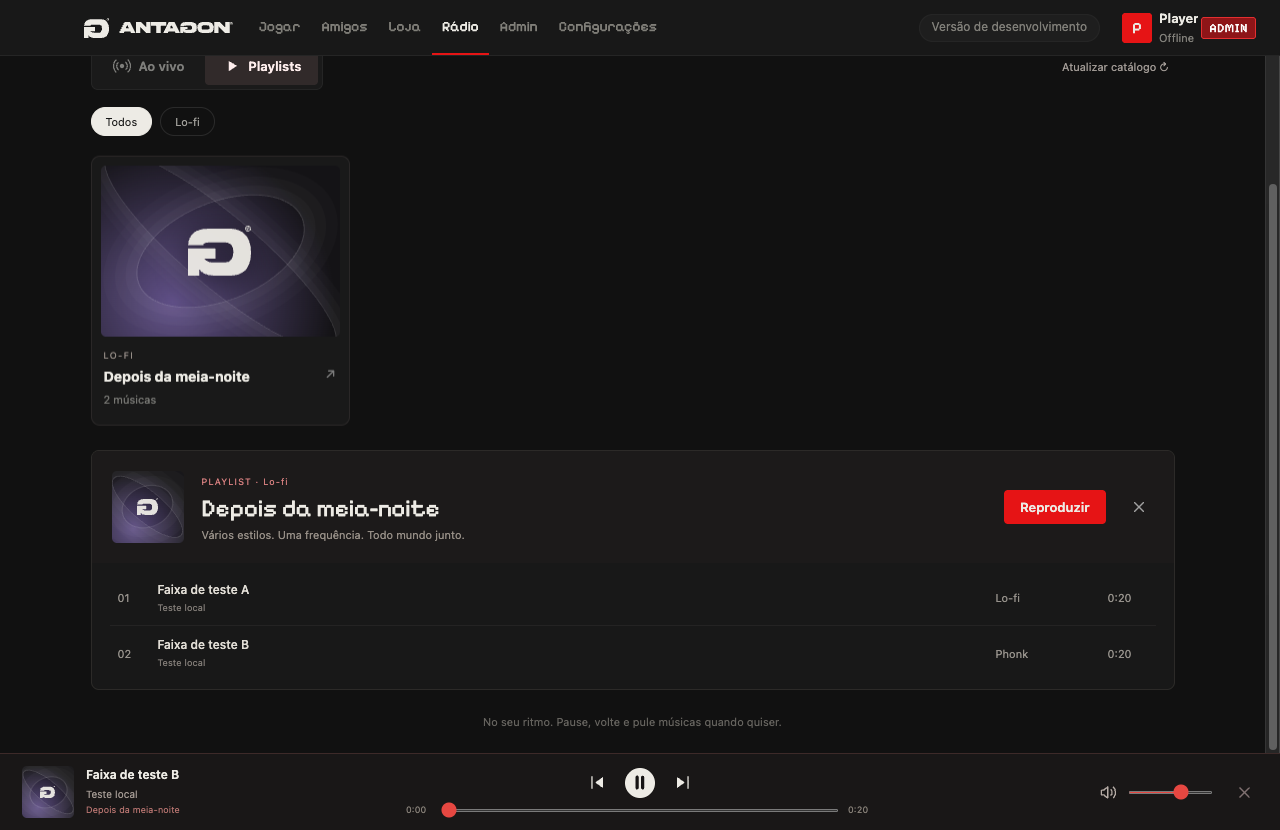
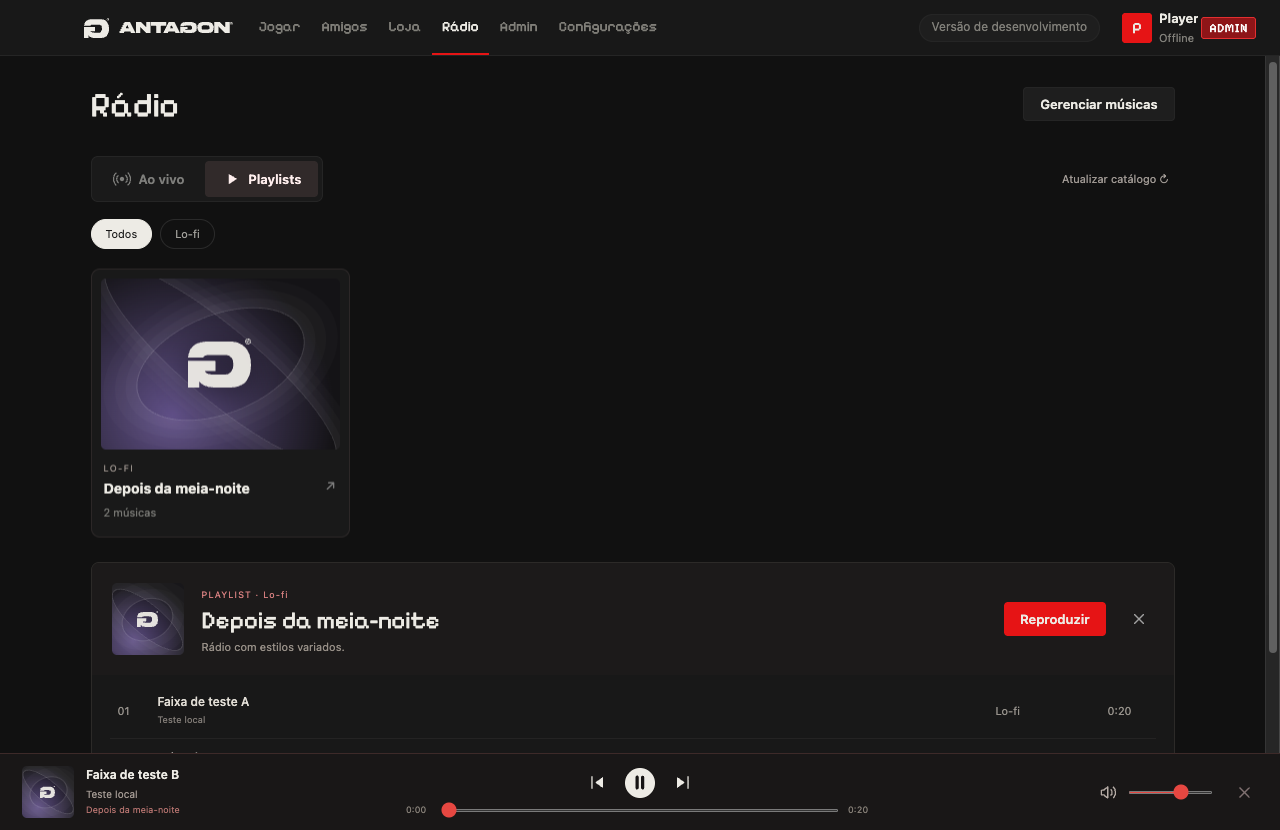
Remove promotional copy throughout the client

diff --git a/ui/radio.js b/ui/radio.js
@@ -42,14 +42,14 @@ export function mountRadio(api, toast) {
     reportBusy = false;
   $('#view-radio').innerHTML = `
     <div class="radio-page">
-      <header class="radio-heading"><div><span class="radio-eyebrow">ANTAGON MUSIC</span><h1>Encontre sua frequência.</h1><p>O som certo para acompanhar sua próxima partida.</p></div><button id="radio-manage" class="secondary" hidden>Gerenciar músicas</button></header>
+      <header class="radio-heading"><h1>Rádio</h1><button id="radio-manage" class="secondary" hidden>Gerenciar músicas</button></header>
       <div class="radio-hero" id="radio-hero"></div>
       <div class="radio-toolbar"><div class="radio-modes" role="group" aria-label="Modo de reprodução"><button data-radio-mode="radio" class="active">${icon('radio')} Ao vivo</button><button data-radio-mode="playlist">${icon('play')} Playlists</button></div><button id="radio-refresh" class="radio-refresh">Atualizar catálogo ↻</button></div>
       <div class="radio-genres" id="radio-genres" role="group" aria-label="Estilo musical"></div>
       <p class="radio-notice" id="radio-notice" role="status" hidden></p>
       <div class="radio-grid" id="radio-grid"></div>
       <section class="radio-detail" id="radio-detail" aria-label="Músicas da seleção" hidden></section>
-      <p class="radio-footnote" id="radio-footnote">Uma mesma frequência para todos. Escolha uma rádio e entre no ar.</p>
+      <p class="radio-footnote" id="radio-footnote">Nas rádios, todos ouvem a mesma música ao mesmo tempo.</p>
     </div>`;
   const footer = document.createElement('footer');
   footer.className = 'music-player';
@@ -86,9 +86,7 @@ export function mountRadio(api, toast) {
     $('#music-title').textContent = state.track?.title || 'Aguardando programação';
     $('#music-artist').textContent =
       state.error ||
-      (state.state === 'buffering'
-        ? 'Carregando áudio…'
-        : state.track?.artist || 'As músicas aparecerão aqui quando a rádio entrar no ar.');
+      (state.state === 'buffering' ? 'Carregando áudio…' : state.track?.artist || 'Nenhuma música na programação.');
     $('#music-collection').textContent = state.collection.name;
     $('#music-toggle').setAttribute(
       'aria-label',
@@ -116,7 +114,7 @@ export function mountRadio(api, toast) {
     $('#radio-hero').hidden = mode !== 'radio' || !main;
     if (main)
       $('#radio-hero').innerHTML =
-        `<div class="radio-hero-copy"><span class="radio-eyebrow"><span class="radio-dot"></span> A FREQUÊNCIA DA COMUNIDADE</span><h2>${esc(main.name)}</h2><p>${esc(main.description)}</p><button class="radio-listen" data-radio-play="${esc(main.id)}" ${available(main) ? '' : 'disabled'}>${icon('play')} ${available(main) ? 'Ouvir ao vivo' : 'Em preparação'}</button><span class="radio-hero-note">${available(main) ? 'Mesma música. Mesmo momento.' : 'As primeiras músicas chegam em breve.'}</span></div>${cover(main, 'hero-art')}`;
+        `<div class="radio-hero-copy"><span class="radio-eyebrow"><span class="radio-dot"></span> ${available(main) ? 'AO VIVO' : 'RÁDIO'}</span><h2>${esc(main.name)}</h2><p>${esc(main.description)}</p><button class="radio-listen" data-radio-play="${esc(main.id)}" ${available(main) ? '' : 'disabled'}>${icon('play')} ${available(main) ? 'Ouvir ao vivo' : 'Em preparação'}</button></div>${cover(main, 'hero-art')}`;
     const list = catalog.collections.filter((c) => c.mode === mode);
     const genres = ['Todos', ...new Set(list.map((c) => c.genre))];
     if (!genres.includes(genre)) genre = 'Todos';
@@ -134,11 +132,11 @@ export function mountRadio(api, toast) {
               `<button class="radio-card" data-radio-open="${esc(c.id)}">${cover(c)}<span class="radio-card-meta"><small>${esc(c.genre)}${c.mode === 'radio' ? ' · RÁDIO' : ''}</small><b>${esc(c.name)}</b><span class="radio-card-now" data-now="${esc(c.id)}">${c.trackIds.length ? `${c.trackIds.length} músicas` : 'Em preparação'}</span></span><span class="radio-card-arrow">↗</span></button>`,
           )
           .join('')
-      : '<div class="radio-empty">As playlists estão sendo preparadas. Volte em breve para encontrar sua próxima trilha.</div>';
+      : '<div class="radio-empty">Nenhuma seleção disponível.</div>';
     $('#radio-footnote').textContent =
       mode === 'radio'
-        ? 'Todos ouvem juntos. Ao voltar, você acompanha o ponto atual da transmissão.'
-        : 'No seu ritmo. Pause, volte e pule músicas quando quiser.';
+        ? 'Nas rádios, todos ouvem a mesma música ao mesmo tempo. Ao retomar, você acompanha o ponto atual da transmissão.'
+        : 'Nas playlists, você pode pausar, voltar e avançar músicas.';
     $('#radio-notice').hidden = !message;
     $('#radio-notice').textContent = message;
     renderDetail();

diff --git a/ui/index.html b/ui/index.html
@@ -39,20 +39,12 @@
       <section id="view-play" class="view active">
         <div class="home">
           <div class="home-heading">
-            <div>
-              <span class="eyebrow">ANTAGON CLIENT</span>
-              <h1>Seu próximo mundo.</h1>
-            </div>
+            <h1>Jogar</h1>
             <span class="home-edition">MINECRAFT JAVA EDITION</span>
           </div>
           <div class="home-hero">
             <div class="home-artwork">
               <img id="home-art" src="../assets/home-castle.png" alt="Castelo gótico sob a montanha-caveira" />
-              <div class="home-art-caption">
-                <span class="hero-mark"><img src="../assets/g-light.svg" alt="" />PRONTO PARA A PRÓXIMA PARTIDA</span>
-                <h2>Entre no jogo.</h2>
-                <p>O seu Minecraft. Do seu jeito.</p>
-              </div>
             </div>
             <aside class="launch-settings" aria-label="Configurações de jogo">
               <div class="launch-heading">
@@ -111,24 +103,20 @@
           </div>
           <section class="home-featured" aria-labelledby="featured-title">
             <div class="featured-heading">
-              <div>
-                <span class="eyebrow">DO SEU JEITO</span>
-                <h2 id="featured-title">Destaques da loja</h2>
-              </div>
-              <button id="home-store" class="text-button">Explorar loja <span aria-hidden="true">↗</span></button>
+              <h2 id="featured-title">Destaques da loja</h2>
+              <button id="home-store" class="text-button">Ver loja <span aria-hidden="true">↗</span></button>
             </div>
             <div id="featured-items" class="featured-items" aria-live="polite">
               <p class="featured-empty">Carregando destaques…</p>
             </div>
           </section>
-          <footer class="home-footer"><span>SEU JOGO. SUA IDENTIDADE.</span><span>ANTAGON STUDIO</span></footer>
         </div>
       </section>
 
       <section id="view-friends" class="view">
         <div class="gate" id="community-gate">
           <h2>Amigos</h2>
-          <p>Adicione seus amigos, veja o que eles estão jogando e converse sem sair do launcher.</p>
+          <p>Adicione amigos pelo nick do Minecraft para conversar e ver o status deles.</p>
           <button class="primary" id="community-login">Conectar</button>
         </div>
         <div class="community" id="community" hidden>
@@ -163,7 +151,7 @@
           <div class="store-heading">
             <div>
               <h1>Cosméticos</h1>
-              <p>Personalize seu jogador. Outros usuários do Antagon veem sua capa e sua tag.</p>
+              <p>Os cosméticos equipados ficam visíveis para outros usuários do Antagon.</p>
             </div>
             <div class="wallet">
               <img src="../assets/antagon-coin.png" alt="" /><strong id="coin-balance">0</strong><span>ANTAGOIN$</span>

diff --git a/ui/app.js b/ui/app.js
@@ -322,7 +322,7 @@ function itemPreview(item) {
   return `<img class="${item.kind === 'hat' ? 'hat' : ''}" src="${meta.image}" alt="" />`;
 }
 const itemDescription = (item) =>
-  ITEMS[item.id]?.description || (item.kind === 'hat' ? 'Acessório para a cabeça.' : 'Capa exclusiva.');
+  ITEMS[item.id]?.description || (item.kind === 'hat' ? 'Acessório para a cabeça.' : 'Capa personalizada.');
 let featuredRequest = null;
 function refreshFeatured() {
   if (featuredRequest) return featuredRequest;
@@ -337,7 +337,7 @@ function refreshFeatured() {
                 `<button class="featured-card" data-featured-item="${escape(item.id)}" aria-label="Ver ${escape(item.name)} na loja"><span class="featured-art"><span class="featured-kind">${item.kind === 'hat' ? 'Acessório' : 'Capa'}</span>${itemPreview(item)}</span><span class="featured-info"><span><b>${escape(item.name)}</b><span class="featured-price"><img src="../assets/antagon-coin.png" alt="" />${Number(item.price).toLocaleString('pt-BR')} ANTAGOIN$</span></span><span class="featured-arrow" aria-hidden="true">↗</span></span></button>`,
             )
             .join('')
-        : '<p class="featured-empty">Novos destaques em breve. Explore os cosméticos na loja.</p>';
+        : '<p class="featured-empty">Nenhum item em destaque.</p>';
     } catch {
       target.innerHTML =
         '<p class="featured-empty">Não foi possível carregar os destaques. <button id="featured-retry" class="text-button">Tentar novamente</button></p>';

diff --git a/ui/style.css b/ui/style.css
@@ -455,17 +455,10 @@ main {
 }
 .home-heading,
 .featured-heading,
-.launch-heading,
-.home-footer {
+.launch-heading {
   display: flex;
   align-items: center;
   justify-content: space-between;
-}
-.eyebrow {
-  color: #999a9c;
-  font-size: 10px;
-  letter-spacing: 2px;
-  font-weight: 700;
 }
 .home-heading {
   margin-bottom: 19px;
@@ -499,41 +492,6 @@ main {
   height: 100%;
   object-fit: cover;
   object-position: 53% center;
-}
-.home-artwork::after {
-  content: '';
-  position: absolute;
-  inset: 0;
-  background: linear-gradient(0deg, #080e19ed, #11192710 68%);
-  pointer-events: none;
-}
-.home-art-caption {
-  position: absolute;
-  z-index: 1;
-  bottom: 27px;
-  left: 30px;
-}
-.hero-mark {
-  display: flex;
-  align-items: center;
-  gap: 9px;
-  font-size: 9px;
-  letter-spacing: 1.6px;
-  color: #d8dce3;
-}
-.hero-mark img {
-  width: 19px;
-  height: 19px;
-}
-.home-art-caption h2 {
-  font: 46px var(--pixel);
-  margin: 12px 0 5px;
-  text-shadow: 0 2px 15px #0004;
-}
-.home-art-caption p {
-  margin: 0;
-  color: #b2bdca;
-  font-size: 12px;
 }
 .launch-settings {
   padding: 15px;
@@ -789,12 +747,6 @@ main {
   color: var(--muted);
   font-size: 13px;
   text-align: center;
-}
-.home-footer {
-  margin-top: 22px;
-  color: #575b62;
-  font-size: 9px;
-  letter-spacing: 1.2px;
 }
 .store-item:focus-within {
   outline: 1px solid var(--red);

diff --git a/ui/radio.css b/ui/radio.css
@@ -34,10 +34,6 @@
   margin: 7px 0 4px;
   letter-spacing: -0.3px;
 }
-.radio-heading p {
-  color: var(--muted);
-  margin: 0;
-}
 .radio-hero {
   min-height: 218px;
   position: relative;
@@ -89,11 +85,7 @@
   width: 18px;
   height: 18px;
 }
-.radio-hero-note {
-  color: #ae8c8c;
-  font-size: 11px;
-  margin-left: 14px;
-}
+
 .radio-art {
   --art: #a4182d;
   display: block;
@@ -757,10 +749,7 @@
     width: 230px;
     margin-right: 28px;
   }
-  .radio-hero-note {
-    display: block;
-    margin: 9px 0 0;
-  }
+
   .radio-hero-copy {
     padding: 25px;
   }

diff --git a/mod-src/studio/antagon/AntagonHud.java b/mod-src/studio/antagon/AntagonHud.java
@@ -890,7 +890,7 @@ public class AntagonHud {
         String title = radioTitle, sub = radioArtist;
         if (title.isEmpty()) {
             title = "RÁDIO ANTAGON";
-            sub = "Escolha sua frequência no menu";
+            sub = "Selecione uma rádio ou playlist";
         }
         text(fit(title, w - tx - 6), tx, 5, WHITE);
         text(fit(sub, w - tx - 6), tx, 17, GRAY);
